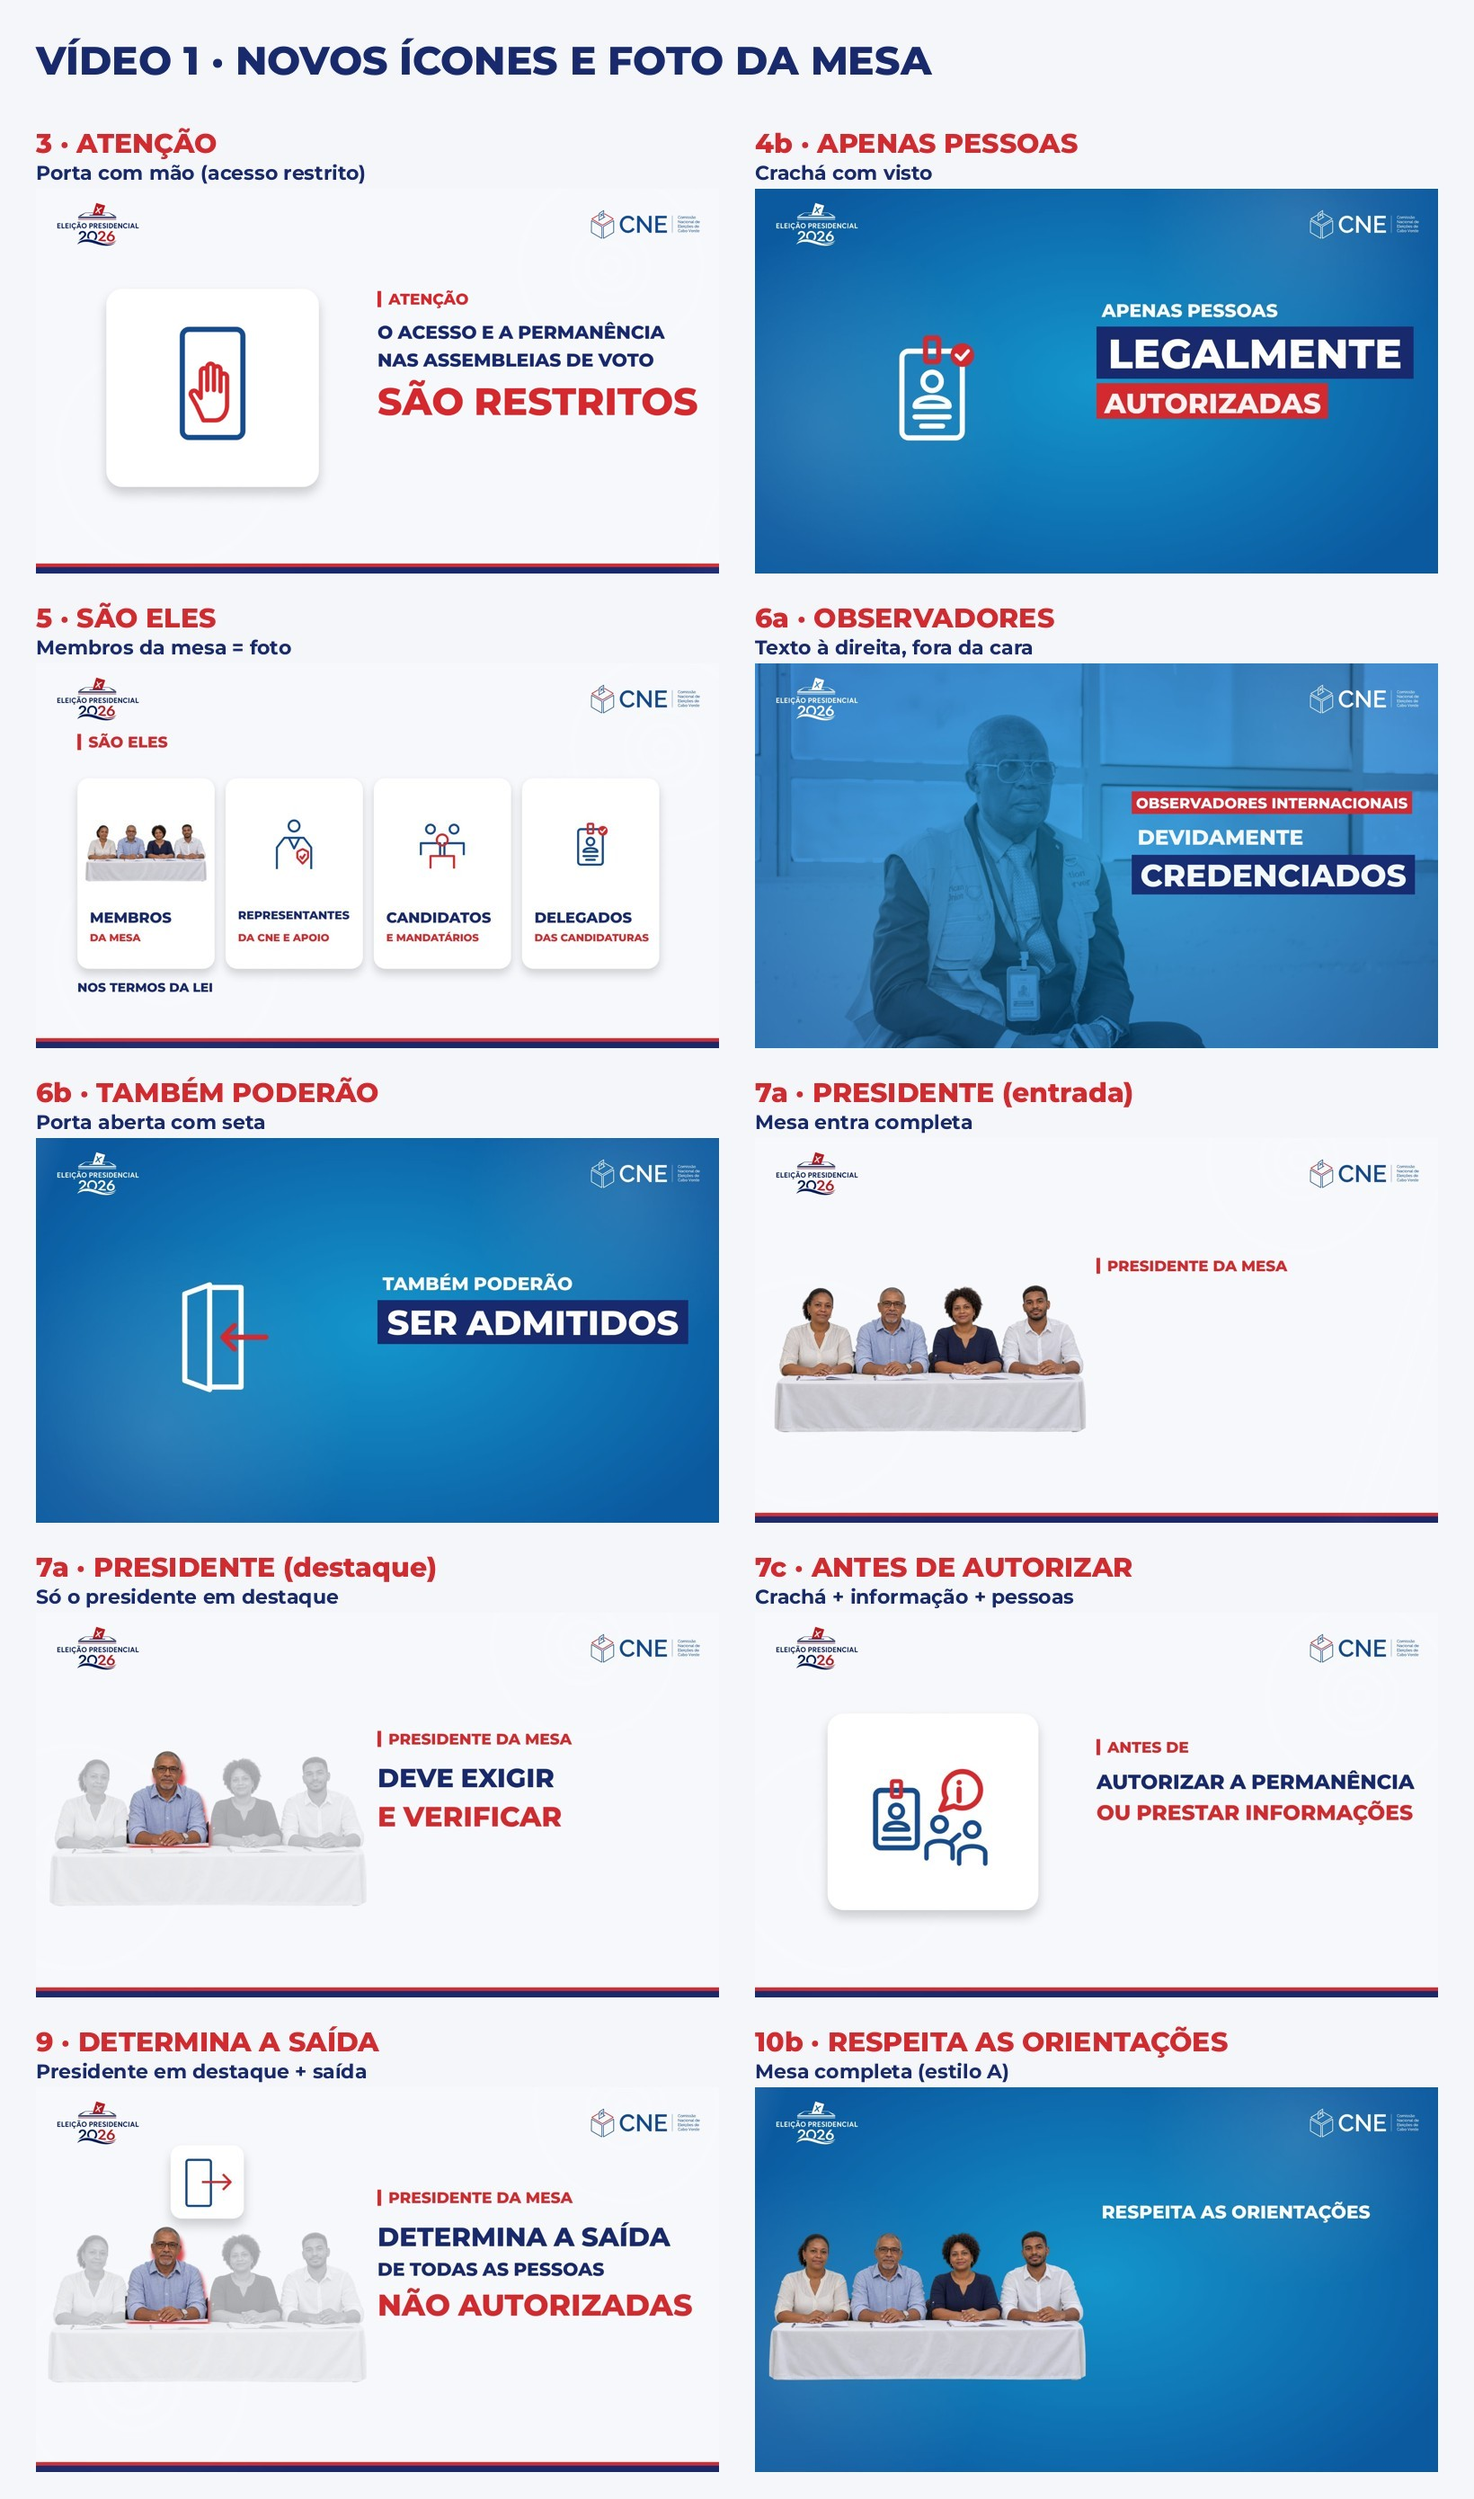
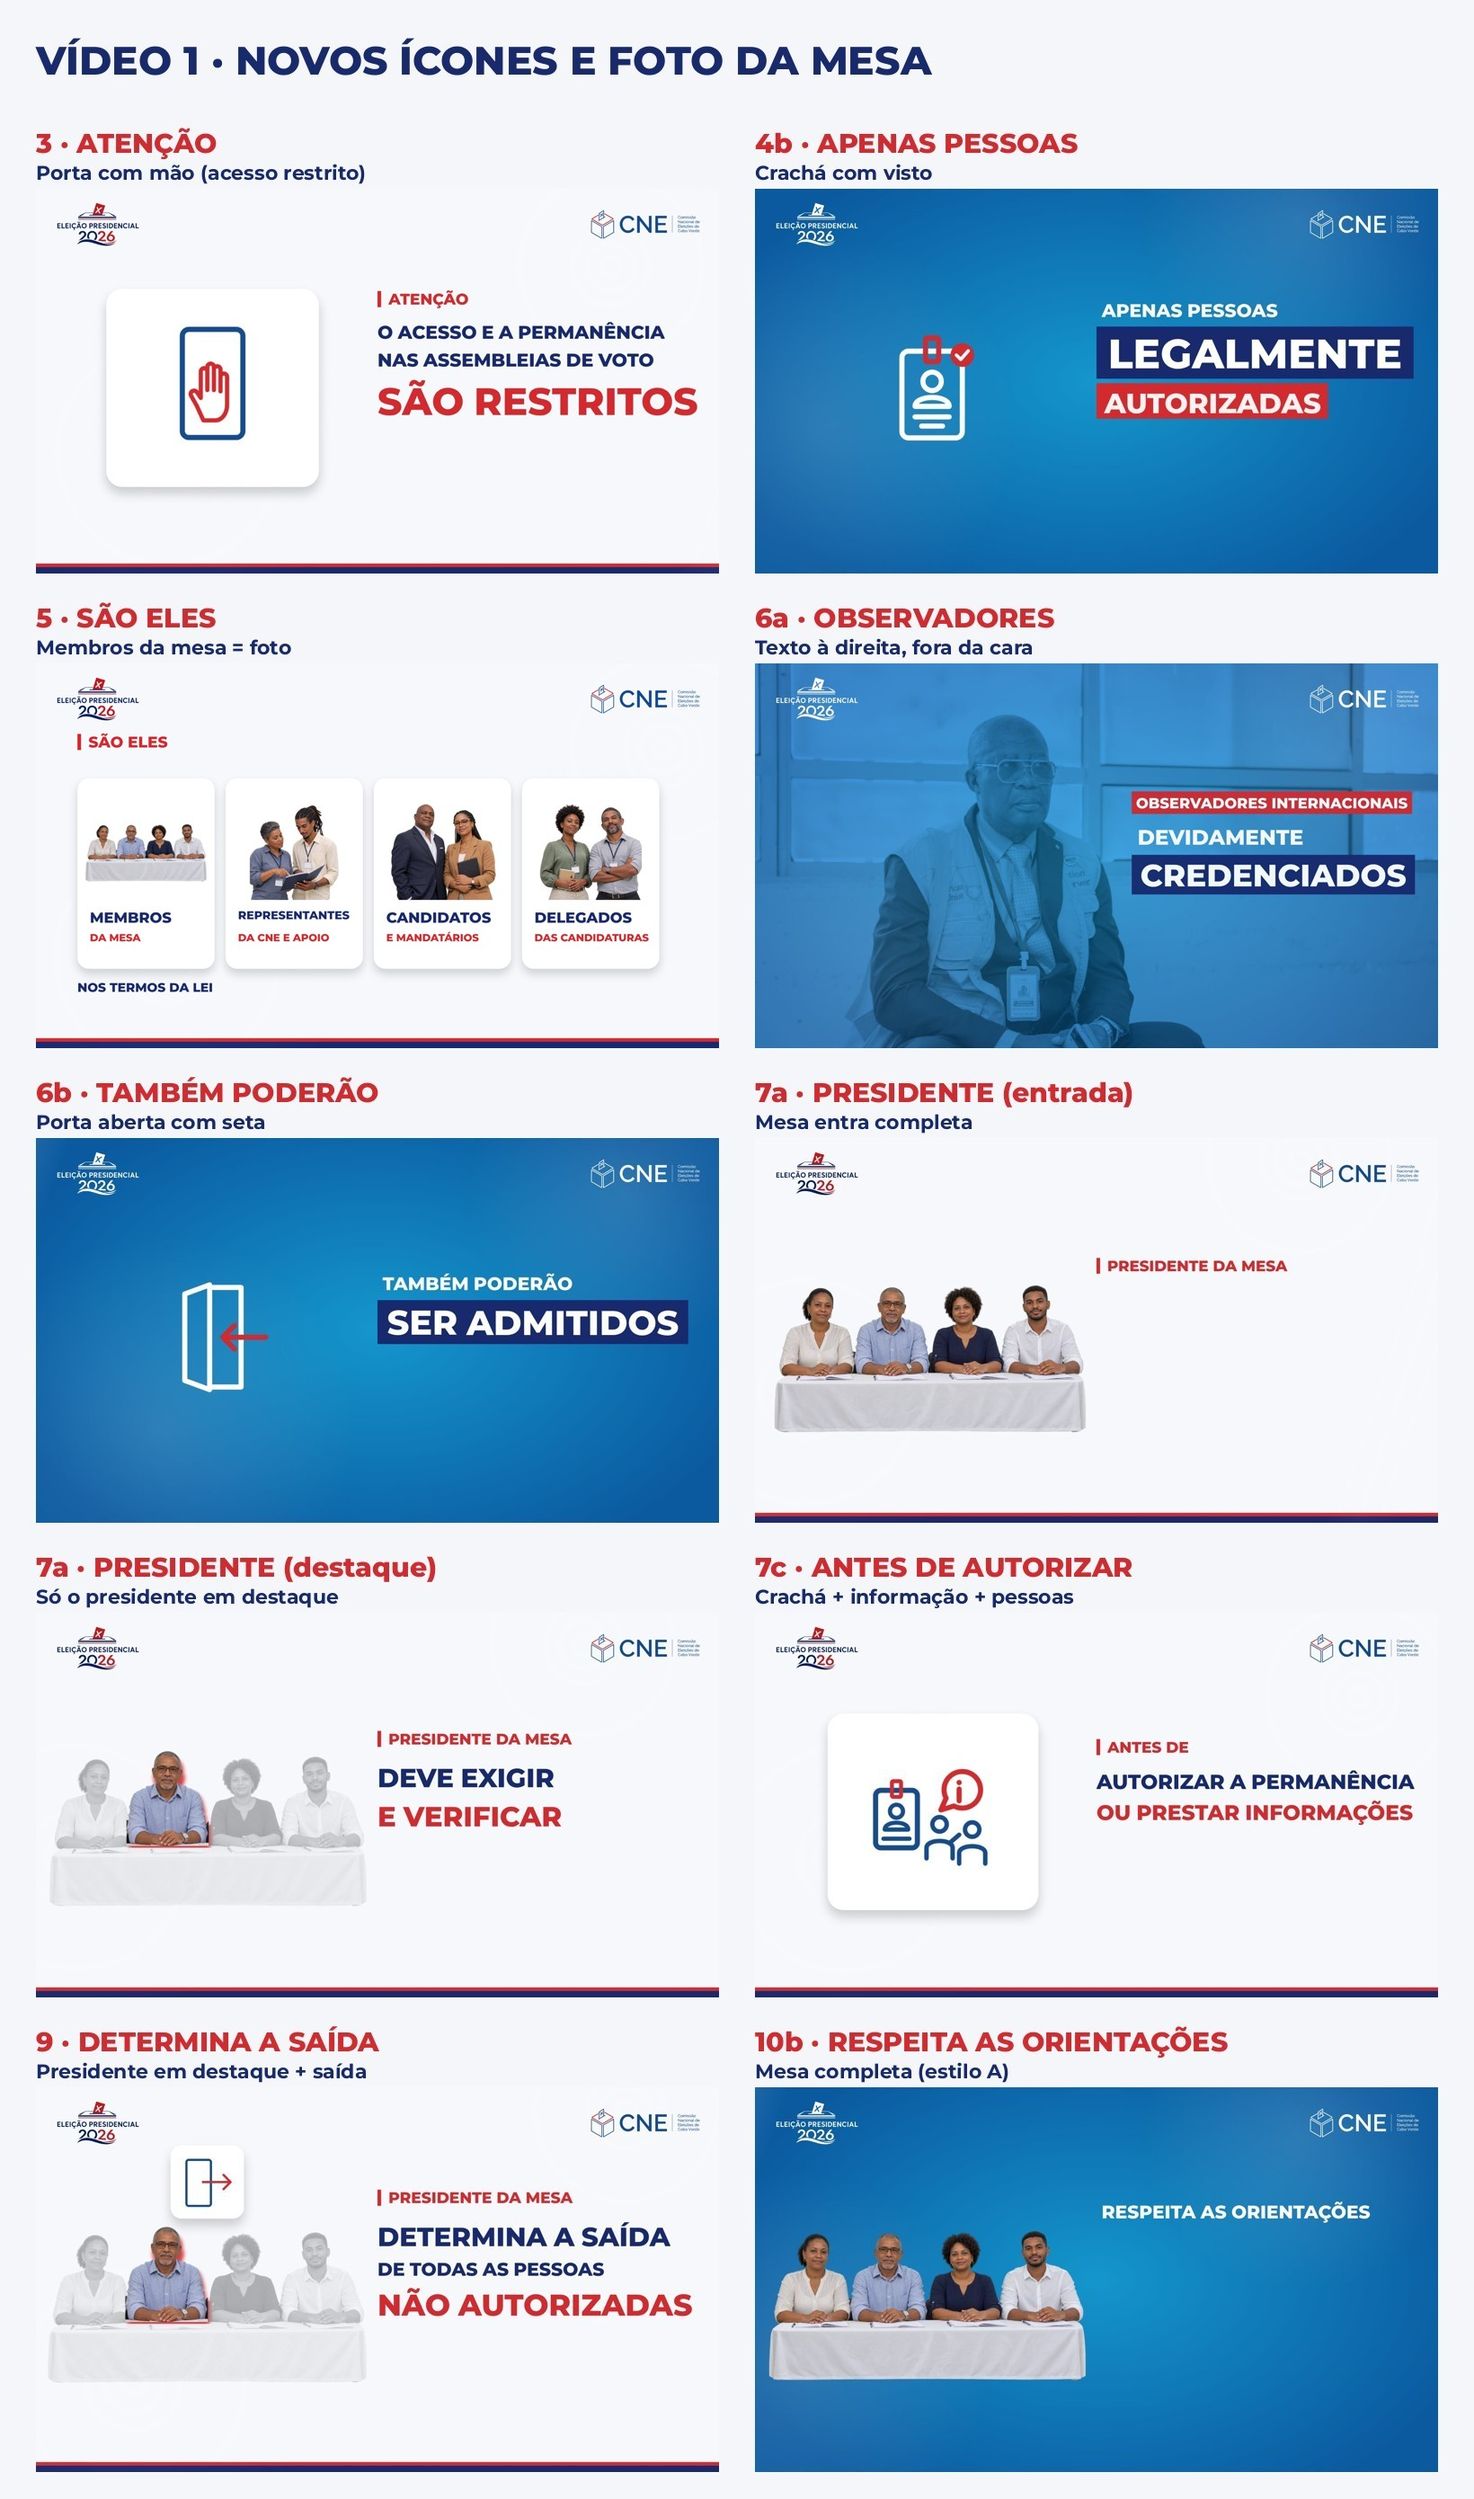
V1: 'São eles' com fotos (mesa, representantes, candidatos, delegados)
Claude-Session: https://claude.ai/code/session_01B7qCVcC1uXVL2xuSSAUW2M

Changed region(s): [[0.1555, 0.3094, 0.3421, 0.3712], [0.3732, 0.3094, 0.4354, 0.3712]]

diff --git a/comunicado_regras/novos_src/motion/v1anim.html b/comunicado_regras/novos_src/motion/v1anim.html
@@ -110,7 +110,7 @@ BT.forEach((b,i)=>{
       tl.set(g,{visibility:'visible'},t0);tl.set(g,{visibility:'hidden'},tEnd);
       const k=el('div','abs',g,'left:140px;top:205px');kicker(k,b.kick,st,t0+.1);
       const items=[['mesa4row','MEMBROS','DA MESA'],['cne','REPRESENTANTES','DA CNE E APOIO'],['pessoas','CANDIDATOS','E MANDATÁRIOS'],['cracha','DELEGADOS','DAS CANDIDATURAS']];
-      const cards=items.map((it,k)=>{const c=el('div','lcard',g,`left:${140+k*405}px;top:330px`);const im=el('img','',c);im.src=k==0?'v1/mesa.png':`v1/${it[0]}_B.png`;if(k==0)im.style.cssText='left:22px;top:120px;width:331px';
+      const cards=items.map((it,k)=>{const c=el('div','lcard',g,`left:${140+k*405}px;top:330px`);const im=el('img','',c);im.src=['v1/mesa.png','v1/grp_rep.png','v1/grp_cand.png','v1/grp_del.png'][k];im.style.cssText=k==0?'left:22px;top:120px;width:331px':'left:50%;top:70px;height:262px;width:auto;transform:translateX(-50%)';
         el('div','t1',c).textContent=it[1];el('div','t2',c).textContent=it[2];el('div','ring',c);
         const t1_=c.querySelector('.t1');let fs=40;t1_.style.fontSize=fs+'px';while(t1_.offsetWidth>310){fs-=1;t1_.style.fontSize=fs+'px'}return c});
       const foot=el('div','abs',g,'left:140px;top:880px;font-weight:800;color:#19296D;font-size:34px');foot.textContent='NOS TERMOS DA LEI';
